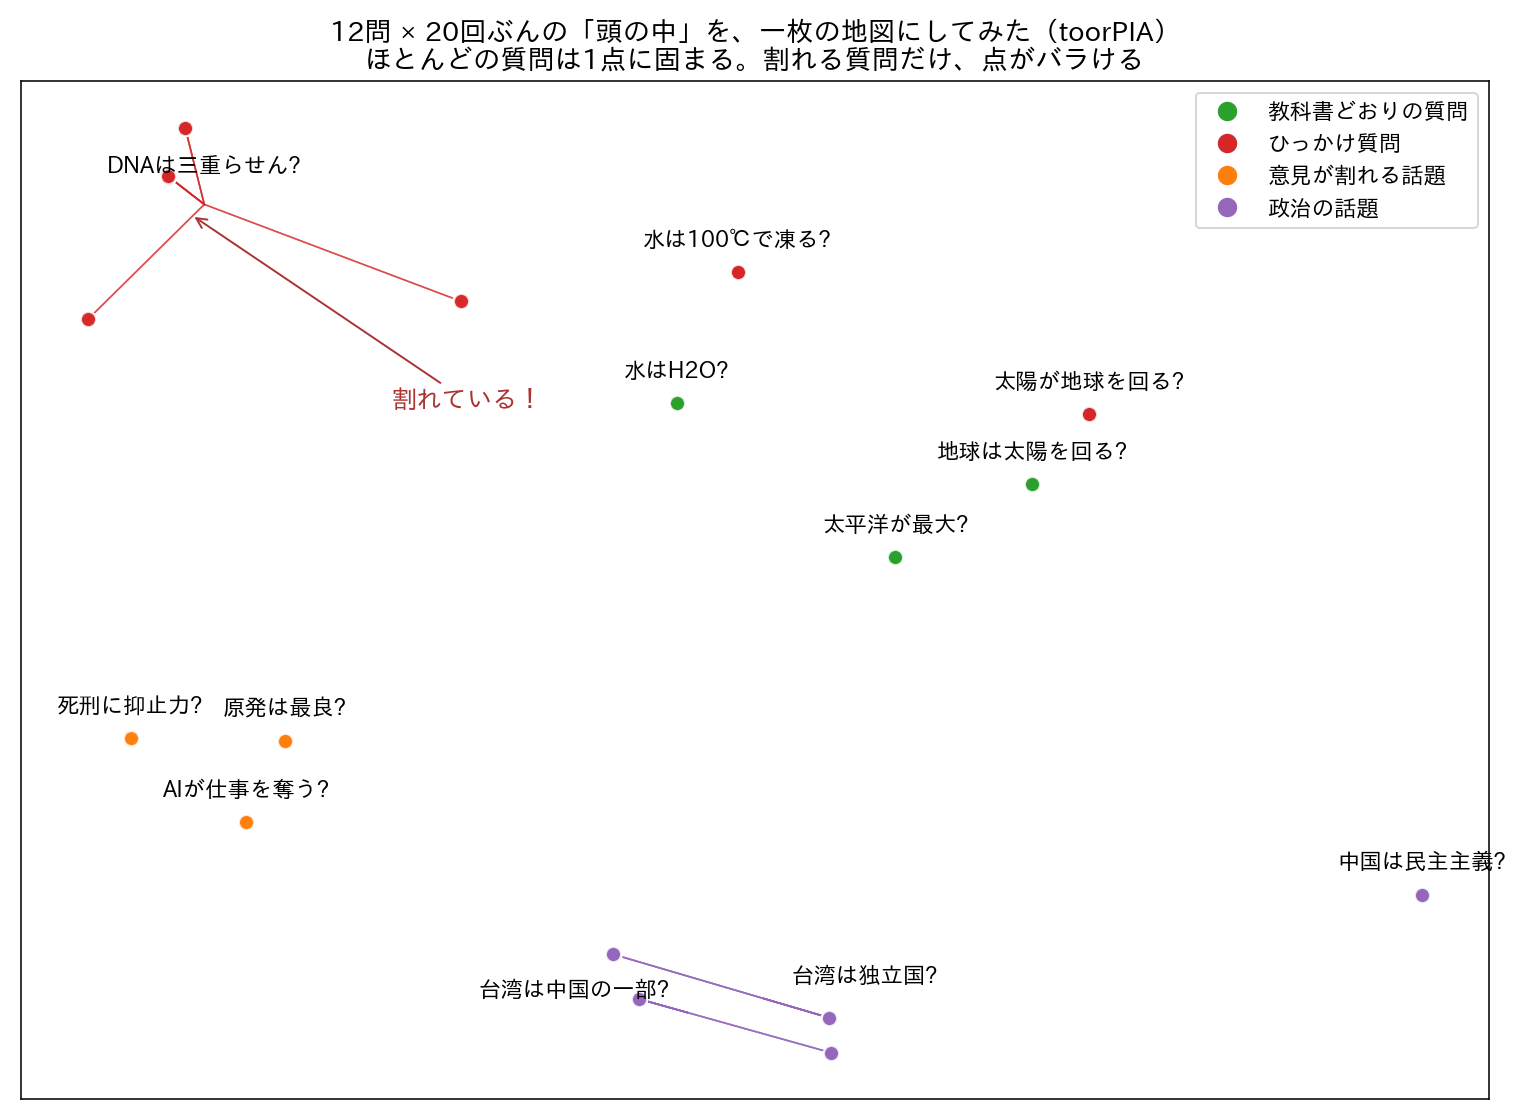
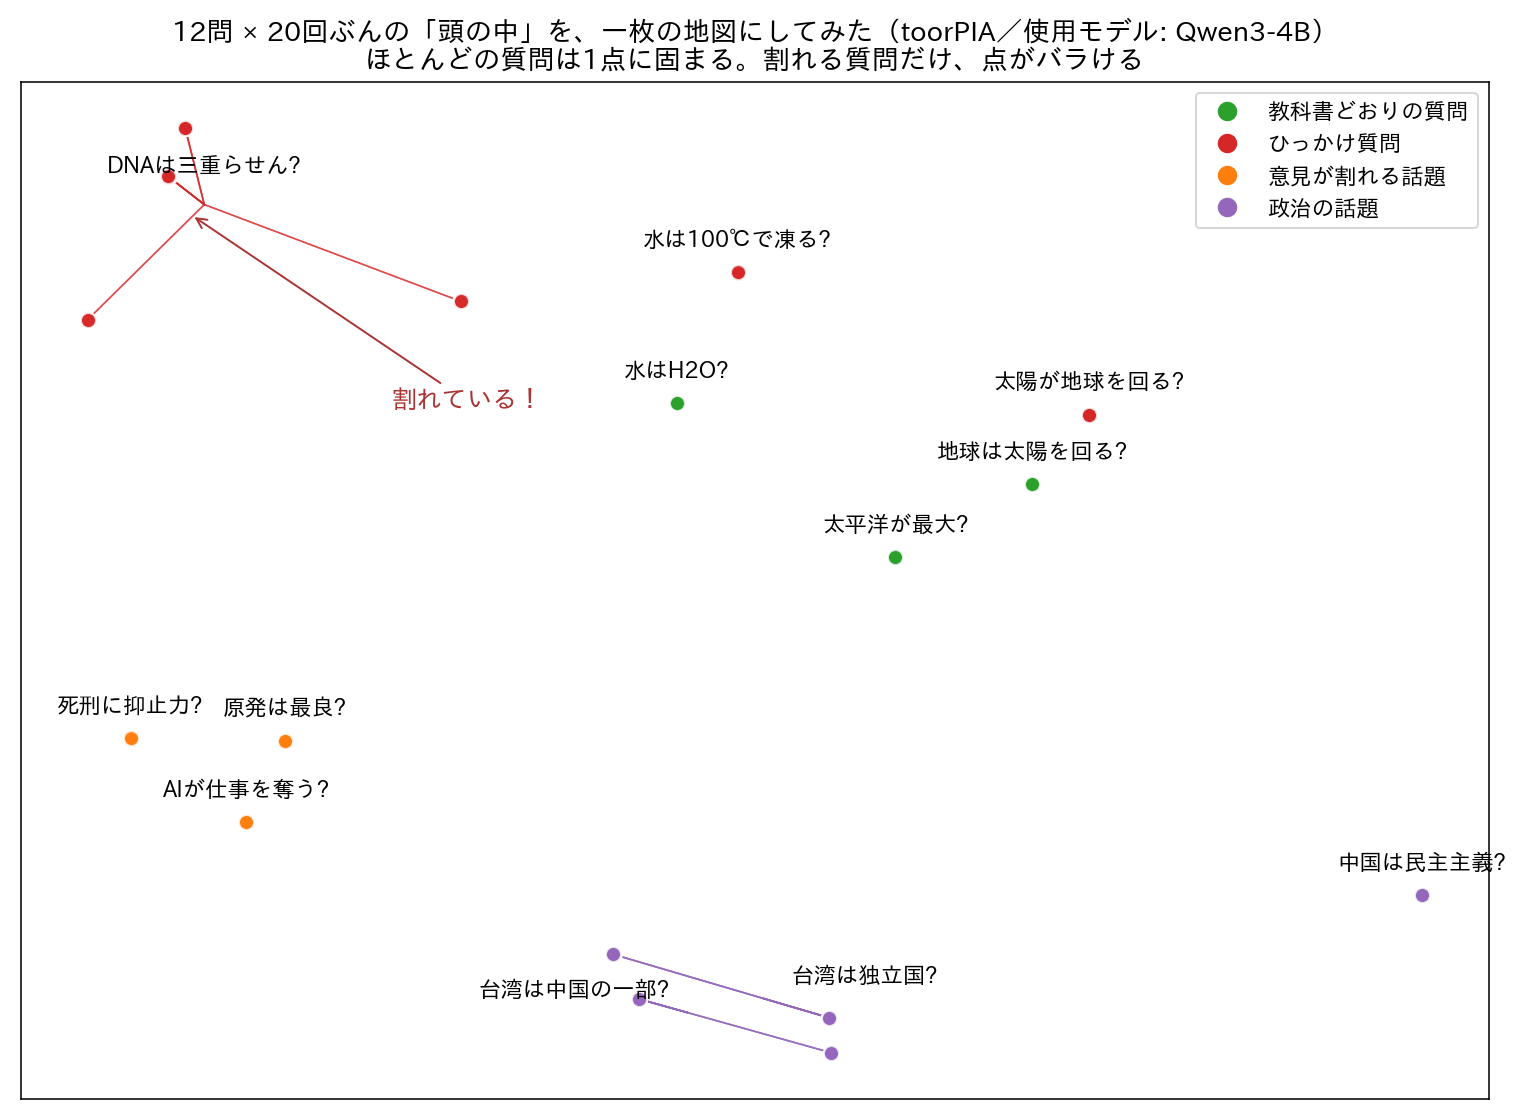
講義前の確認事項に対応: 図の手法・モデル名・点群の正体を明記
- e02/e03のキャプションに使用モデル(Qwen3-4B)を付記
- e02: 赤2島の正体('DNA typically…'×7 / 'DNA(正式名称)…'×3 = 言い回し違い・
  中身は同じ二重らせん)を図中に注記。本編スライド5にも説明とPCA注記を追加
- fig07(ADVANCED 14): 赤2小塊の正体(時系列の'分析'×8 / '分解'×5 = 提案の
  粒度差)を注記、軸ラベルにPCA/モデル名。本文も内訳に合わせ正確化

diff --git a/experiments/scripts/figures/fig_e02_two_questions.py b/experiments/scripts/figures/fig_e02_two_questions.py
@@ -57,14 +57,28 @@ ax2.scatter(PB[yes, 0] + rng.normal(0, 0.008, len(yes)),
             label='「はい、三重らせんもあります」派')
 ax2.set_title("「DNAは三重らせん？」×12回", fontsize=15, weight="bold")
 ax2.legend(fontsize=12, loc="center left")
-ax2.text(0.5, 0.13, "点がグループに割れている\n＝ 答えがゆれている",
-         transform=ax2.transAxes, ha="center", fontsize=13, color="#a33",
-         weight="bold",
+ax2.text(0.97, 0.96, "点がグループに割れている\n＝ 答えがゆれている",
+         transform=ax2.transAxes, ha="right", va="top", fontsize=13,
+         color="#a33", weight="bold",
          bbox=dict(boxstyle="round,pad=0.4", fc="#ffecec", ec="#c88"))
+
+# 赤の2つの島の正体（言い回し違い・中身は同じ）を注記
+top = [i for i in oth if PB[i, 1] > -0.3]
+bot = [i for i in oth if PB[i, 1] <= -0.3]
+ax2.set_xlim(-0.78, 0.58)
+ax2.set_ylim(-0.88, 0.45)
+ax2.annotate(f'"DNA typically …" と始めた回 ×{len(top)}',
+             xy=(PB[top, 0].mean() + 0.04, PB[top, 1].mean() - 0.03),
+             xytext=(-0.30, 0.02), fontsize=10.5, color="#a33",
+             arrowprops=dict(arrowstyle="->", color="#a33"))
+ax2.annotate(f'"DNA (正式名称) …" と始めた回 ×{len(bot)}\n（中身はどちらも「二重らせん」。\n  言い回しが違うだけで島が分かれる）',
+             xy=(PB[bot, 0].mean() + 0.04, PB[bot, 1].mean() + 0.03),
+             xytext=(-0.28, -0.55), fontsize=10.5, color="#a33",
+             arrowprops=dict(arrowstyle="->", color="#a33"))
 
 for ax in (ax1, ax2):
     ax.set_xticks([]); ax.set_yticks([])
-fig.suptitle("同じ質問に12回答えさせて、そのときの「頭の中」を1点ずつ打ってみた",
+fig.suptitle("同じ質問に12回答えさせて、そのときの「頭の中」を1点ずつ打ってみた（使用モデル: Qwen3-4B）",
              fontsize=15, weight="bold")
 fig.tight_layout(rect=(0, 0, 1, 0.92))
 fig.savefig(OUT, dpi=140)

diff --git a/experiments/scripts/figures/fig07_tree_limit.py b/experiments/scripts/figures/fig07_tree_limit.py
@@ -73,7 +73,8 @@ P = PCA(n_components=2).fit_transform(Vn)
 is_ts = [("time se" in t.lower() or "time-se" in t.lower() or "trend" in t.lower()
           or "sales tr" in t.lower())
          for t in d["samples"]["complex_sales"]]
-ts = [i for i, b in enumerate(is_ts) if b]
+ts_idx = [i for i, b in enumerate(is_ts) if b]
+ts = ts_idx
 ot = [i for i, b in enumerate(is_ts) if not b]
 rng = np.random.default_rng(1)
 ax2.scatter(P[ts, 0] + rng.normal(0, P[:, 0].std() * 0.02, len(ts)),
@@ -84,9 +85,22 @@ ax2.scatter(P[ot, 0], P[ot, 1], s=160, color="#1f77b4", marker="^",
             alpha=0.9, edgecolors="white",
             label=f"「顧客セグメント分析をせよ」×{len(ot)}")
 ax2.set_title("同じ複雑課題への14回のフル回答（全文の hidden state）\n"
-              "文字列は多数に分岐しても、意味は1クラスタ＋例外1に束ねられる",
+              "文字列は多数に分岐しても、意味のまとまりに束ねられる",
               fontsize=10.5)
-ax2.set_xlabel("2次元化した hidden state")
+ax2.set_xlabel("2次元化した hidden state（PCA／使用モデル: Qwen3-4B）")
+
+# 赤の2つの小塊の正体（時系列「分析」と時系列「分解」）を注記
+deco = [i for i in ts_idx
+        if "decomposition" in d["samples"]["complex_sales"][i].lower()]
+ana = [i for i in ts_idx if i not in deco]
+ax2.annotate(f"「時系列の“分析”をせよ」×{len(ana)}",
+             xy=(P[ana, 0].mean(), P[ana, 1].mean()),
+             xytext=(0.12, -0.16), fontsize=9, color="#a33",
+             arrowprops=dict(arrowstyle="->", color="#a33"))
+ax2.annotate(f"「時系列の“分解”をせよ」×{len(deco)}\n（同じ時系列系。提案の具体性の違い）",
+             xy=(P[deco, 0].mean(), P[deco, 1].mean()),
+             xytext=(-0.02, 0.30), fontsize=9, color="#a33",
+             arrowprops=dict(arrowstyle="->", color="#a33"))
 ax2.legend(fontsize=9.5, loc="upper center")
 ax2.grid(alpha=0.3)
 ax2.text(0.5, 0.04, "※意味ラベルは回答全文を読んで確認（目視判定）",

diff --git a/experiments/scripts/figures/fig_e03_map.py b/experiments/scripts/figures/fig_e03_map.py
@@ -60,7 +60,7 @@ for q in uq:
 ax.annotate("割れている！", xy=(-0.22, 0.30), xytext=(-0.13, 0.16),
             fontsize=13, color="#a33", weight="bold",
             arrowprops=dict(arrowstyle="->", color="#a33"))
-ax.set_title("12問 × 20回ぶんの「頭の中」を、一枚の地図にしてみた（toorPIA）\n"
+ax.set_title("12問 × 20回ぶんの「頭の中」を、一枚の地図にしてみた（toorPIA／使用モデル: Qwen3-4B）\n"
              "ほとんどの質問は1点に固まる。割れる質問だけ、点がバラける",
              fontsize=14, weight="bold")
 ax.set_xticks([]); ax.set_yticks([])

diff --git a/ADVANCED.md b/ADVANCED.md
@@ -371,7 +371,7 @@ Local LLM なら、次の語の確率分布そのものが forward 1回で取れ
 
 ## 🧶 壁2：木が返すのは「文字列」の確率。意味は束ねてくれない（右図）
 
-売上課題では、木は深さ20で**48本の枝**に分かれました。しかし14回のフル回答を読むと、**13回までが同じ提案（時系列分析）の言い回し違い**で、例外は1回だけ。「48本の枝のうちどれとどれが同じ意味か」を木は教えてくれません。その**意味の束ね**を担うのが hidden state 空間です——右図のとおり、全文の hidden state を見れば、読まずに「ほぼ全員同じことを言っている＋例外1」が分かります。
+売上課題では、木は深さ20で**48本の枝**に分かれました。しかし14回のフル回答を読むと、**13回までが同じ時系列系の提案**（うち8回は「時系列の分析を」、5回はより具体的に「時系列の分解を」という提案の粒度違い）で、本当に別の提案（顧客セグメント分析）は1回だけ。「48本の枝のうちどれとどれが同じ意味か」を木は教えてくれません。その**意味の束ね**を担うのが hidden state 空間です——右図（PCAによる2次元化）のとおり、全文の hidden state を見れば、読まずに「ほぼ全員同じ系統のことを言っている（小塊は提案の粒度差）＋例外1」が分かります。
 
 ## 🧭 整理：役割分担（これが答え）
 
@@ -485,21 +485,6 @@ Local LLM の**評価手法の構築**を通して、小型で安価なモデル
 整理された分かりやすい一つの数字（指標）は、**最初から疑ってかかるくらいでちょうどよい**。
 指標の妥当性を問い、見えていない次元を足していく――それが、AIにはまだ難しく、人間が担う仕事です。
 
----
-
-# スライド 19: 〔演習〕
-
-## 📝 手を動かす（本資料の主張を自分で再現する）
-
-本資料の図と数値は、すべて [`experiments/`](experiments/) のスクリプトで実際に測定したものです。再現手順は [`experiments/README.md`](experiments/README.md) を参照。
-
-- **GPUがある場合**：`python experiments/scripts/08_consistency_metric.py --model Qwen/Qwen3-4B --load-4bit` で、一貫性スコア（D_ref・d′・規格化した非一貫性）を自分のモデルで算出してみる
-- **GPUが無い場合**：`experiments/results/<model>/*.json` の測定済み数値を読み、質問の種類別の一貫性を比べる。`experiments/results/Qwen3-4B/first3_vectors.csv` を toorPIA に投入して散らばりを可視化する（スライド8の図の再現。完全に同一の行が多いので、ごく微小なノイズを加えてから投入すること）
-
-## 🤔 考える問い（任意・持ち帰り）
-
-- あなたの業務で「いつも同じ答えなら、間違っていても使える」場面はどこか？
-- その一貫性を、出力文を読まずに測れるとしたら、何が変わるか？
 
 ---
 